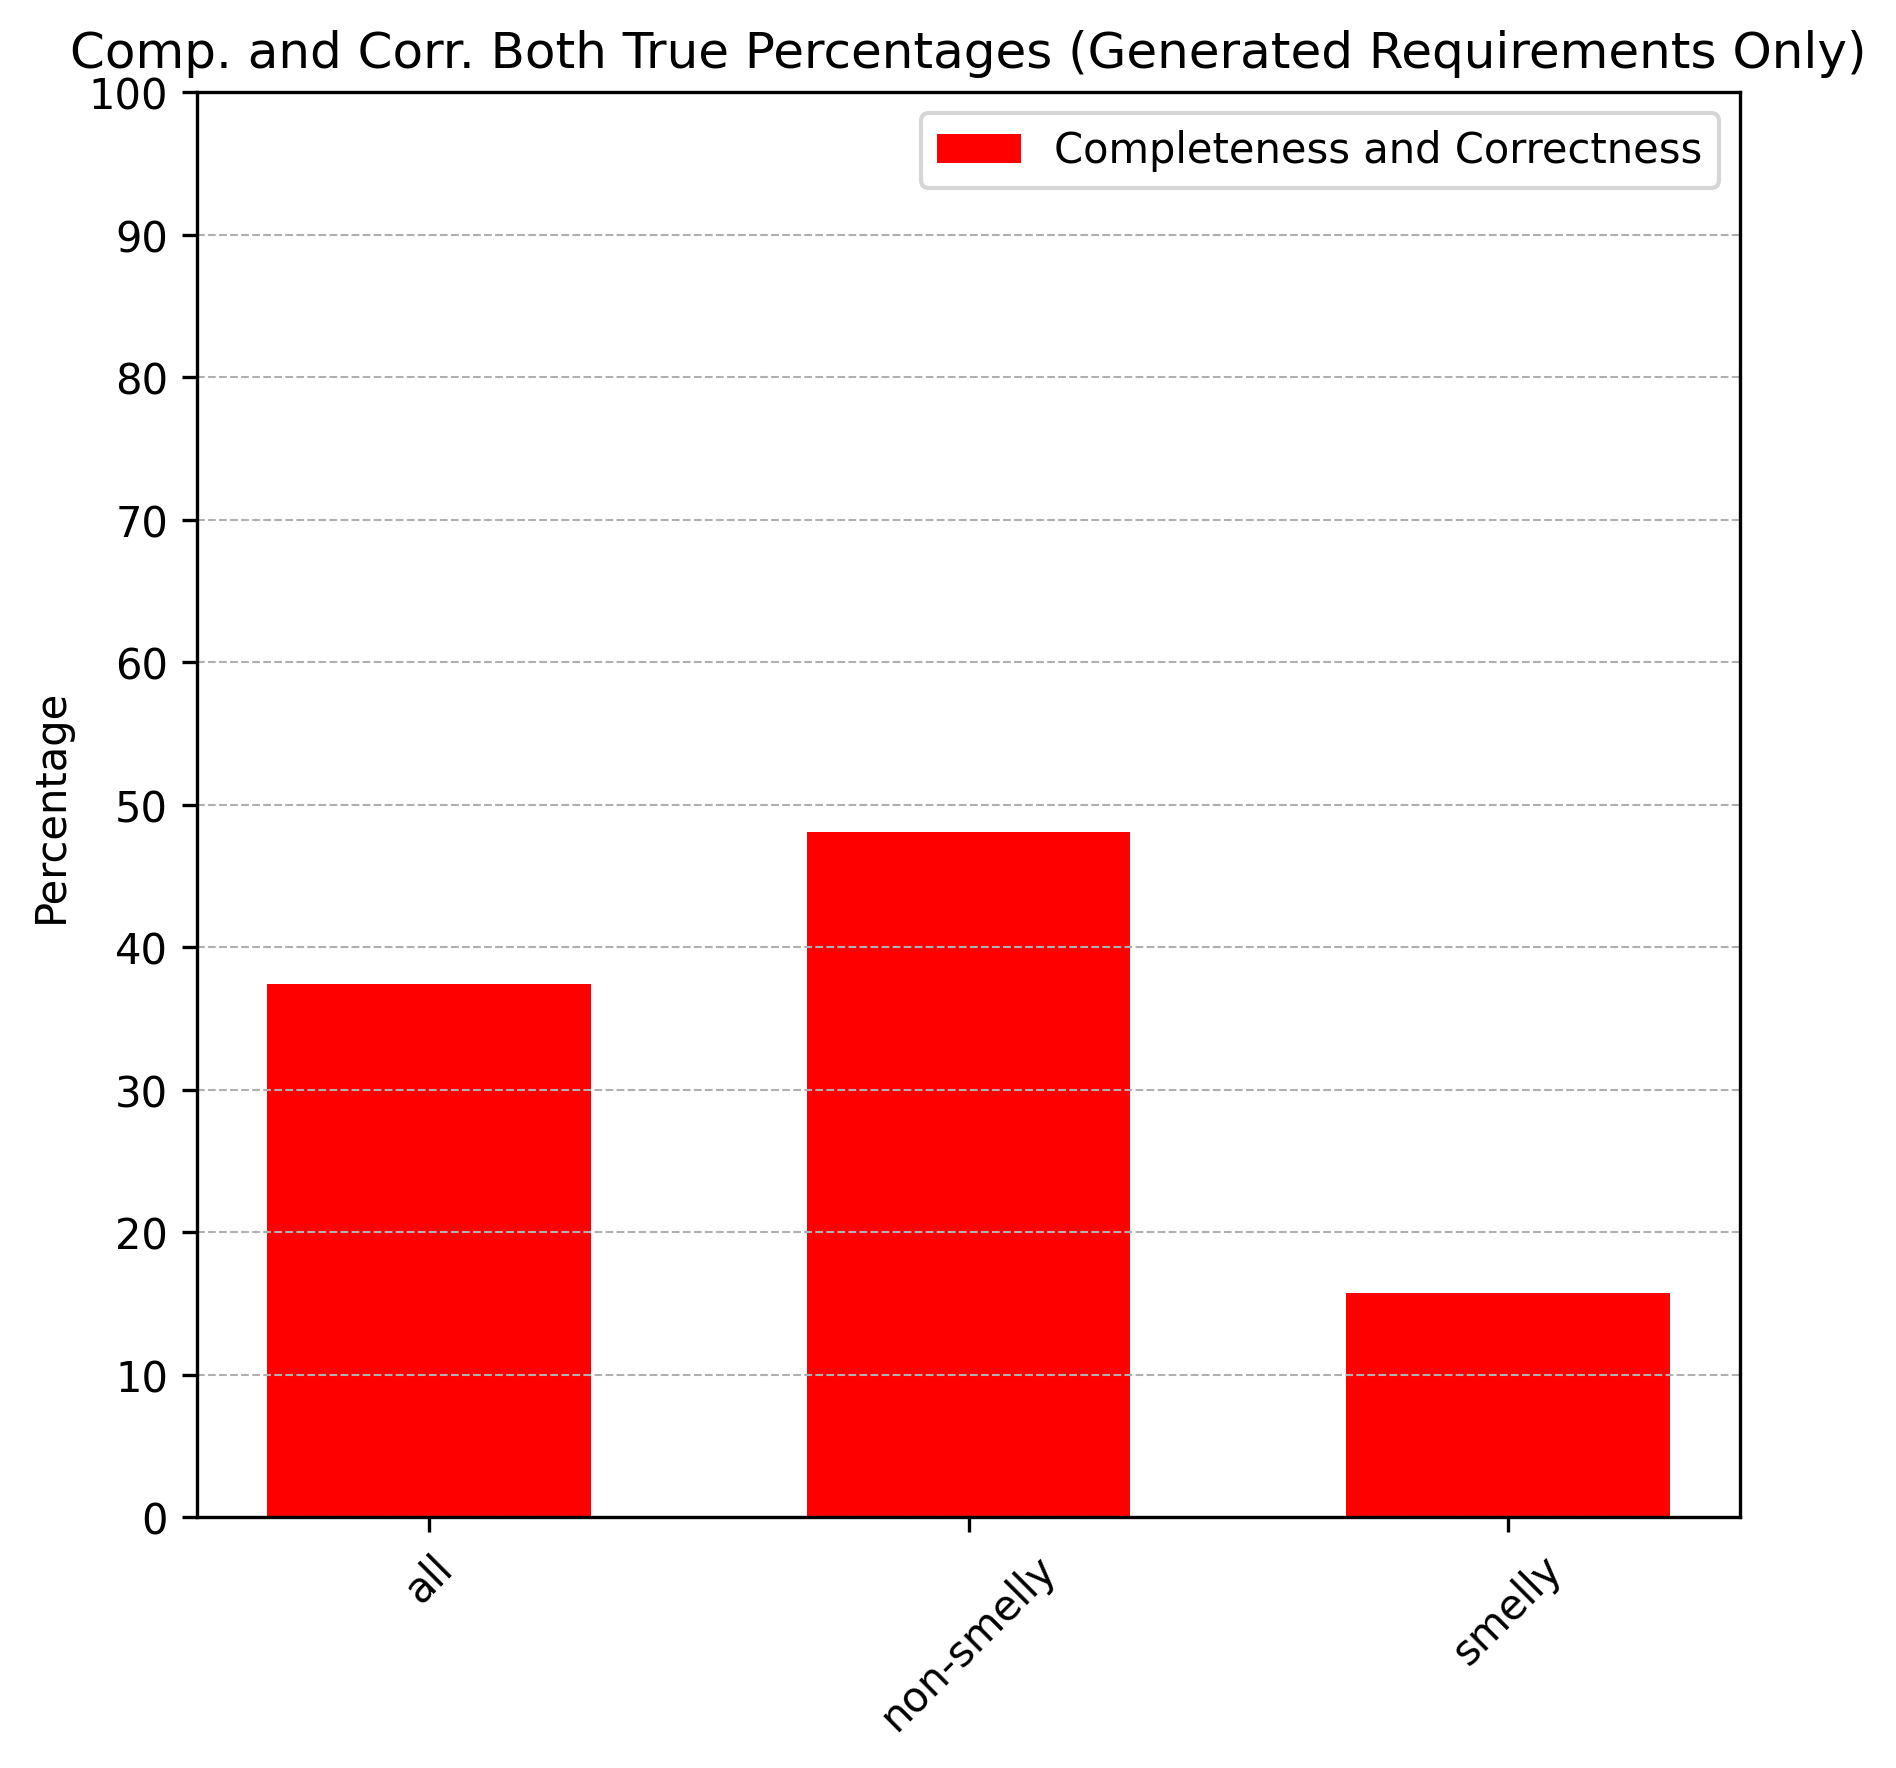
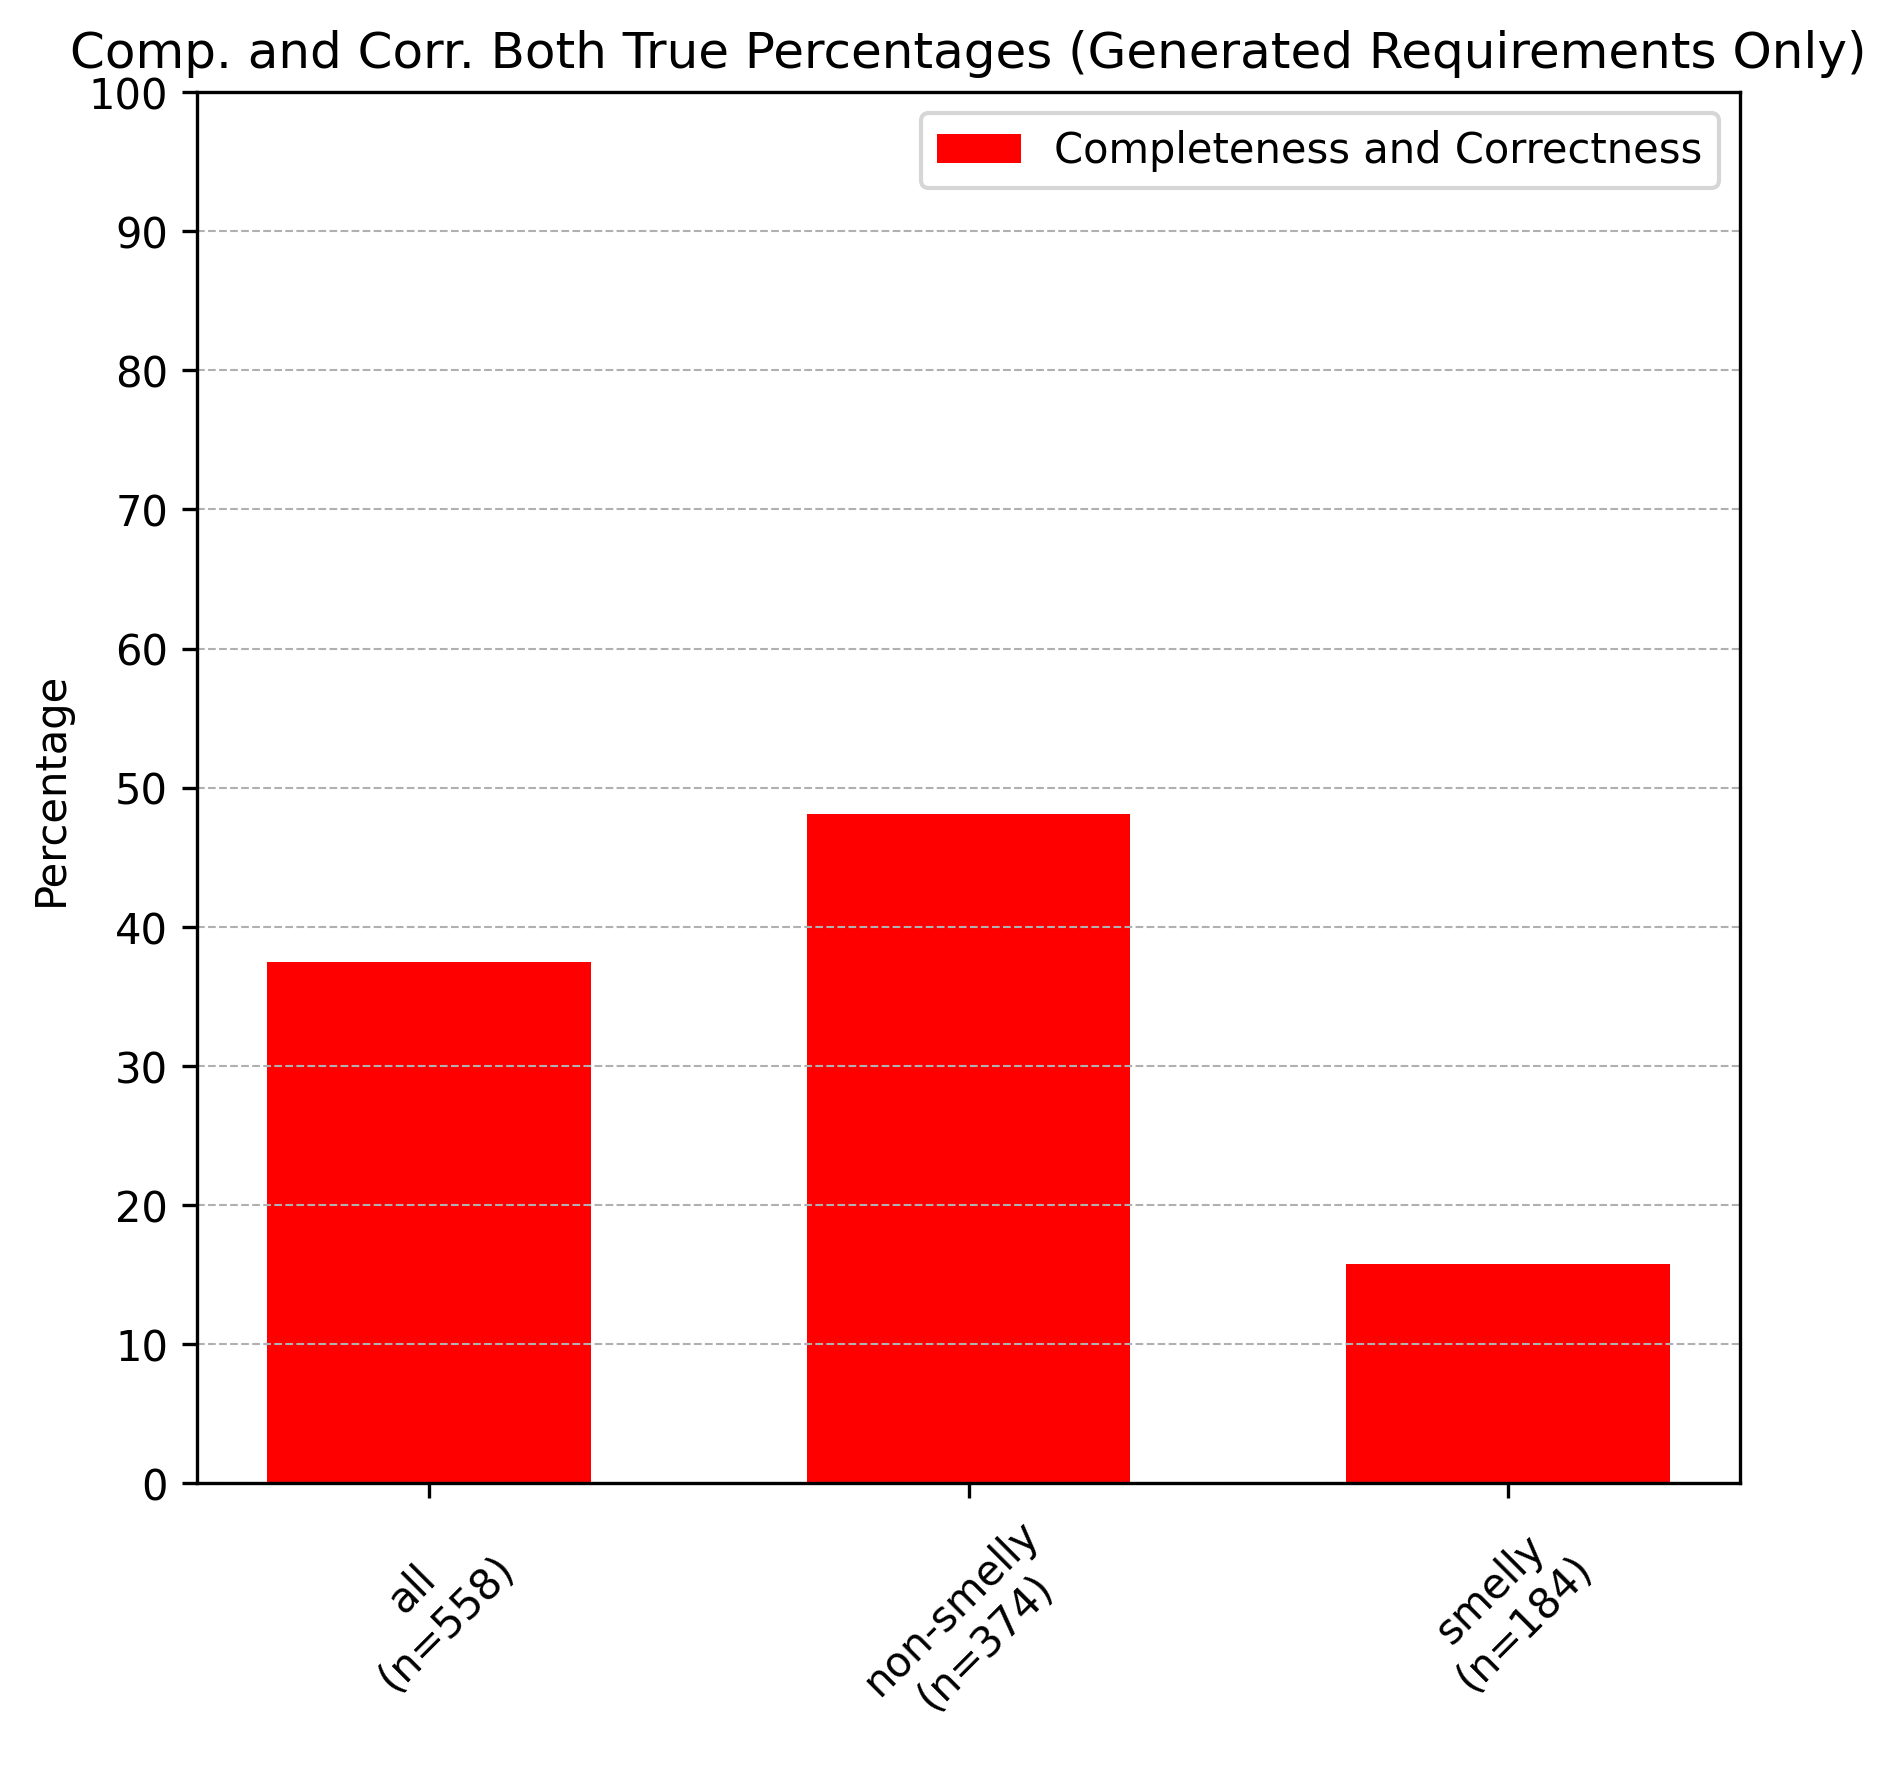
Small fixes

diff --git a/evaluation_analysis/rq3_diagram_generators.py b/evaluation_analysis/rq3_diagram_generators.py
@@ -8,7 +8,7 @@ import pandas as pd
 
 
 def generate_rq3_diagrams(evals_info):
-    """ scores_dict = extract_smell_type_based_info(evals_info)
+    scores_dict = extract_smell_type_based_info(evals_info)
     scores_dict_without_2_7 = extract_smell_type_based_info(evals_info, no_completeness_evals_incl = False)
     create_smell_type_based_score_percentages(scores_dict, 'completeness_correctness_percentages_smell_type_based')
     create_smell_type_based_score_percentages(scores_dict_without_2_7,
@@ -17,7 +17,7 @@ def generate_rq3_diagrams(evals_info):
     create_smell_sub_type_based_score_percentages(scores_dict, 'completeness_correctness_percentages_smell_sub_type_based')
     create_smell_sub_type_based_score_percentages(scores_dict_without_2_7,
                                                   'completeness_correctness_percentages_smell_sub_type_based_no_2_7',
-                                                  'Generated Requirements Only') """
+                                                  'Generated Requirements Only')
     create_statistical_test(evals_info)
 
 
@@ -360,74 +360,6 @@ def create_statistical_test(evals_info):
     # print("\nDetailed results saved to 'smell_analysis_results.csv'")
 
     pass
-    
-    """ # Display results
-    results_table = display_results(results)
-    print("\nResults Summary:")
-    print(results_table)
-    
-    # Create a more readable summary table
-    summary = pd.pivot_table(
-        results_table, 
-        values=["p-value", "Cramer's V"], 
-        index=["Test", "Type"], 
-        columns=["Metric"]
-    )
-    
-    print("\nSummary Table:")
-    print(summary)
-    
-    # Plot results
-    plot_results(results, "completeness")
-    plot_results(results, "correctness")
-    
-    # Print detailed contingency tables for significant findings
-    print("\nDetailed Contingency Tables for Significant Findings:")
-    for r in results:
-        if r["p_value"] < 0.05:
-            print(f"\n{r['test_name']} - {r['metric'].capitalize()}")
-            print(f"p-value: {r['p_value']:.4f}, Cramer's V: {r['cramers_v']:.4f}")
-            print(r["contingency"]) """
-
-    """ records = []
-    for game, variants in evals_info.items():
-        for variant, requirements in variants.items():
-            for req_id, details in requirements.items():
-                # Considering only generated requirements
-                if req_id != 'total' and details['correctness_reasons'] != ['2.7']:
-                    record = {
-                        'game': game,
-                        'variant': variant,
-                        'req_id': req_id,
-                        'smell_type': details['smell_type'],
-                        'smell_sub_type': details['smell_sub_type'],
-                        'completeness': details['completeness'],
-                        'correctness': details['correctness']
-                    }
-                    records.append(record)
-
-    df = pd.DataFrame(records)
-
-    df['has_smell']       = df['smell_type'] != ''
-    df['lexical_flag']    = df['smell_type'] == 'lexical'
-    df['syntactic_flag']  = df['smell_type'] == 'syntactic'
-    df['semantic_flag']   = df['smell_type'] == 'semantic'
-
-    cont_comp_smell = pd.crosstab(df['has_smell'], df['completeness'])
-    # Rows: False (clean) / True (smelly)
-    # Columns: 0 (incomplete) / 1 (complete)
-
-    cont_corr_smell = pd.crosstab(df['has_smell'], df['correctness'])
-    # Same layout: 0 = incorrect, 1 = correct
-
-    # Completeness vs. any smell
-    chi2_c, p_c, _, expected_c = chi2_contingency(cont_comp_smell)
-
-    # Correctness vs. any smell
-    chi2_k, p_k, _, expected_k = chi2_contingency(cont_corr_smell)
-
-    print(f"Completeness vs. smell: p = {p_c:.3f}")
-    print(f"Correctness vs. smell:  p = {p_k:.3f}") """
 
 
 def analyze_smells(df):
@@ -523,8 +455,8 @@ def run_chi_squared_test(df, condition_col, condition_value, score_col, negate=F
     # Calculate chi-squared test
     chi2, p, dof, expected = chi2_contingency(contingency)
 
-    if condition_value == 'ambiguities':
-        print(contingency)
+    """ if condition_value == 'lexical':
+        print(contingency) """
 
     # Minimum dimension minus 1
     n = contingency.values.sum()

diff --git a/evaluation_analysis/rq2_diagram_generators.py b/evaluation_analysis/rq2_diagram_generators.py
@@ -73,15 +73,18 @@ def create_score_percentages(evals_info, file_name, no_completeness_evals_incl =
     percentages_dict = {
         'all': {
             'completeness_percentage': all_completeness_percentage,
-            'correctness_percentage': all_correctness_percentage
+            'correctness_percentage': all_correctness_percentage,
+            'count': all_count
         },
         'non-smelly': {
             'completeness_percentage': (scores_dict['non-smelly']['completeness'] / scores_dict['non-smelly']['count']) * 100,
-            'correctness_percentage': (scores_dict['non-smelly']['correctness'] / scores_dict['non-smelly']['count']) * 100
+            'correctness_percentage': (scores_dict['non-smelly']['correctness'] / scores_dict['non-smelly']['count']) * 100,
+            'count': scores_dict['non-smelly']['count']
         },
         'smelly': {
             'completeness_percentage': (scores_dict['smelly']['completeness'] / scores_dict['smelly']['count']) * 100,
-            'correctness_percentage': (scores_dict['smelly']['correctness'] / scores_dict['smelly']['count']) * 100
+            'correctness_percentage': (scores_dict['smelly']['correctness'] / scores_dict['smelly']['count']) * 100,
+            'count': scores_dict['smelly']['count']
         }
     }
 
@@ -91,13 +94,16 @@ def create_score_percentages(evals_info, file_name, no_completeness_evals_incl =
     
     comp_and_corr_percentages_dict = {
         'all': {
-            'comp_and_corr': all_comp_and_corr_percentage
+            'comp_and_corr': all_comp_and_corr_percentage,
+            'count': comp_and_corr_all_count
         },
         'non-smelly': {
-            'comp_and_corr': (comp_and_corr_scores_dict['non-smelly']['comp_and_corr'] / comp_and_corr_scores_dict['non-smelly']['count']) * 100
+            'comp_and_corr': (comp_and_corr_scores_dict['non-smelly']['comp_and_corr'] / comp_and_corr_scores_dict['non-smelly']['count']) * 100,
+            'count': comp_and_corr_scores_dict['non-smelly']['count']
         },
         'smelly': {
-            'comp_and_corr': (comp_and_corr_scores_dict['smelly']['comp_and_corr'] / comp_and_corr_scores_dict['smelly']['count']) * 100
+            'comp_and_corr': (comp_and_corr_scores_dict['smelly']['comp_and_corr'] / comp_and_corr_scores_dict['smelly']['count']) * 100,
+            'count': comp_and_corr_scores_dict['smelly']['count']
         }
     }
 
@@ -136,7 +142,7 @@ def create_percentages_diagram(percentages_dict, file_name, context = 'None'):
 
     # Correctly center tick labels under each group
     ax.set_xticks(group_centers)
-    ax.set_xticklabels(ordered_keys, rotation=45, ha='center')  # <== ha='center' is key here
+    ax.set_xticklabels([item + f'\n(n={percentages_dict[item]['count']})' for index, item in enumerate(ordered_keys)], rotation=45, ha='center')  # <== ha='center' is key here
 
     ax.set_ylim(0, 100)
     ax.set_yticks(np.arange(0, 101, 10))
@@ -178,7 +184,7 @@ def create_percentages_diagram_both_true(percentages_dict, file_name, context = 
 
     # Correctly center tick labels under each group
     ax.set_xticks(x_positions)
-    ax.set_xticklabels(ordered_keys, rotation=45, ha='center')  # <== ha='center' is key here
+    ax.set_xticklabels([item + f'\n(n={percentages_dict[item]['count']})' for index, item in enumerate(ordered_keys)], rotation=45, ha='center')  # <== ha='center' is key here
 
     ax.set_ylim(0, 100)
     ax.set_yticks(np.arange(0, 101, 10))

diff --git a/generate_latex_rows.py b/generate_latex_rows.py
@@ -1,0 +1,84 @@
+import pandas as pd
+import re
+import textwrap
+
+# Load CSV
+df = pd.read_csv('updated_interpretation_table_v2.csv')
+
+# Add ID and round Difference
+df.insert(0, 'ID', range(1, len(df) + 1))
+df['Difference'] = (df['% Zeros (With)'] - df['% Zeros (Without)']).round(1)
+
+# Escape underscores in 'Test'
+df['Test'] = df['Test'].apply(lambda x: x.replace('_', r' '))
+df['Test'] = df['Test'].apply(lambda x: x.replace('Smell type: ', r''))
+df['Test'] = df['Test'].apply(lambda x: x.replace('Subtype: ', r''))
+df['Interpretation'] = df['Interpretation'].apply(lambda x: x.replace('%', r'\%'))
+df['Interpretation'] = df['Interpretation'].apply(lambda x: x.replace('_', r' '))
+
+
+# Abbreviate Metric column
+df['Metric'] = df['Metric'].replace({'Completeness': 'Comp.', 'Correctness': 'Corr.'})
+
+# Round Cramer's V to 3 decimal places, handle zeros
+def round_cramers_v(val):
+    try:
+        return f"{round(float(val), 3):.3f}"
+    except:
+        print('Smth went wrong with rounding!!')
+        return val  # If something goes wrong, return original
+    
+# Round p-value appropriately
+def round_p_value(val):
+    try:
+        val_str = str(val)
+        if 'e' in val_str or 'E' in val_str:
+            match = re.match(r'([0-9.]+)[eE]([-+]?\d+)', val_str)
+            if match:
+                base = float(match.group(1))
+                exponent = match.group(2)
+                rounded_base = round(base, 4)
+                return f"{rounded_base}e{exponent}"
+            else:
+                return val_str
+        else:
+            return f"{round(float(val), 4):.4f}"
+    except:
+        return val  # In case of any issue, return original
+    
+df["Cramer's V"] = df["Cramer's V"].apply(round_cramers_v)
+df['p-value'] = df['p-value'].apply(round_p_value)
+
+# First table columns
+first_table_columns = ['ID', 'Test', 'Metric', 'p-value', 'Significant', "Cramer's V", 'Effect Size']
+# Second table columns
+second_table_columns = ['ID', '% Zeros (Without)', '% Zeros (With)', 'Difference', 'Impact', 'Interpretation']
+
+df_first = df[first_table_columns]
+df_second = df[second_table_columns]
+
+# Function to generate plain LaTeX row strings
+def generate_rows(df, wrap_interpretation=False):
+    rows = []
+    for _, row in df.iterrows():
+        formatted = []
+        for col in df.columns:
+            val = row[col]
+            if col == 'Interpretation' and wrap_interpretation:
+                val = textwrap.fill(str(val), width=40).replace('\n', '\\newline ')
+            formatted.append(str(val))
+        rows.append(' & '.join(formatted) + ' \\\\')
+    return rows
+
+# Generate LaTeX rows
+first_table_rows = generate_rows(df_first)
+second_table_rows = generate_rows(df_second, wrap_interpretation=True)
+
+# Print LaTeX row content
+print("% --- First Table Rows ---")
+for row in first_table_rows:
+    print(row)
+
+print("\n% --- Second Table Rows ---")
+for row in second_table_rows:
+    print(row)

diff --git a/evaluation_analysis/rq1_diagram_generators.py b/evaluation_analysis/rq1_diagram_generators.py
@@ -9,8 +9,8 @@ from general_diagram_generators import create_reason_counts, calc_normalized_rea
 
 def generate_rq1_diagrams(evals_info):
     create_non_smelly_score_percentages(evals_info)
-    create_reason_counts(evals_info, calc_normalized_reason_counts_no_smells, context = 'Non-smelly Variants Only', requested_variants = ['no_smells'], directory = 'rq1')
-    create_non_smelly_score_percentages_both_comp_corr_true(evals_info, directory = 'rq1', file_name = 'completeness_correctness_percentages_both_true.png', context = 'Non-smelly Variants Only')
+    create_reason_counts(evals_info, calc_normalized_reason_counts_no_smells, context = 'No Smells Variants Only', requested_variants = ['no_smells'], directory = 'rq1')
+    create_non_smelly_score_percentages_both_comp_corr_true(evals_info, directory = 'rq1', file_name = 'completeness_correctness_percentages_both_true.png', context = 'No Smells Variants Only')
     create_non_smelly_critical_and_non_critical_reasons_percentage(evals_info)
 
 
@@ -60,7 +60,7 @@ def create_non_smelly_score_percentages(evals_info):
 
     # Labels and title
     ax.set_ylabel('Percentage')
-    ax.set_title('Completeness vs. Correctness Percentages (Non-smelly Variants Only)')
+    ax.set_title('Completeness vs. Correctness Percentages (No Smells Variants Only)')
 
     # Correctly center tick labels under each group
     ax.set_xticks(group_centers)
@@ -176,7 +176,7 @@ def create_non_smelly_critical_and_non_critical_reasons_percentage(evals_info):
 
     # Labels and title
     ax.set_ylabel('Percentage')
-    ax.set_title('Critical vs. Non-Critical Reasons Percentages (Non-smelly Variants Only)')
+    ax.set_title('Critical vs. Non-Critical Reasons Percentages (No Smells Variants Only)')
 
     # Correctly center tick labels under each group
     ax.set_xticks(group_centers)

diff --git a/evaluation_analysis/general_diagram_generators.py b/evaluation_analysis/general_diagram_generators.py
@@ -5,7 +5,7 @@ import matplotlib.pyplot as plt
 import numpy as np
 
 def generate_general_diagrams(evals_info):
-    create_reason_counts(evals_info, calc_normalized_reason_counts_general, directory = 'general')
+    create_reason_counts(evals_info, calc_normalized_reason_counts_general, context = 'All Evaluations', directory = 'general')
 
 
 def create_reason_counts(evals_info, normalizer_func, context = None, requested_variants = None, directory = ''):
